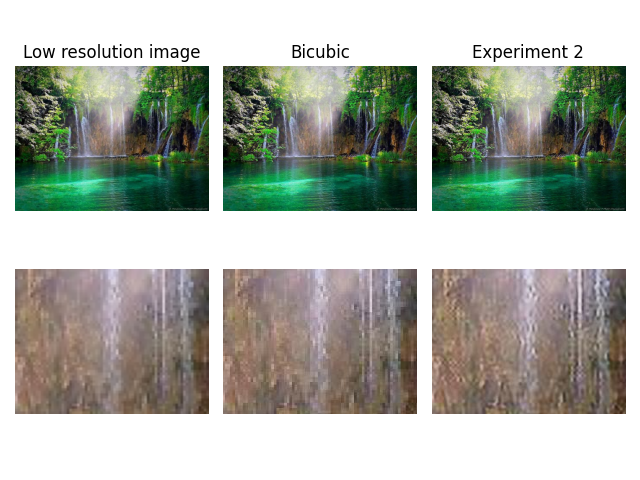
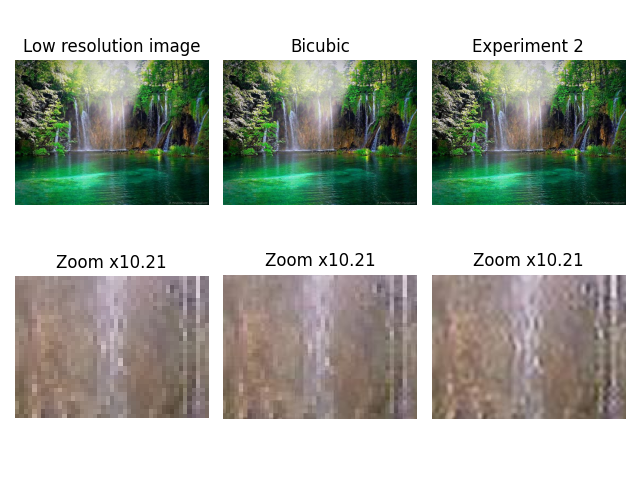
add comparaison

Changed region(s): [[0.0, 0.0625, 1.0, 0.4375], [0.0, 0.5312, 1.0, 0.875]]

diff --git a/data/prediction/compare.py b/data/prediction/compare.py
@@ -1,8 +1,9 @@
 import os
 import cv2
+from tqdm import tqdm
 import matplotlib.pyplot as plt
 
-def compare_images(image1, image2, image3, zoom_factor, upscale_factor, experiment):
+def compare_images(image1, image2, image3, zoom_factor, upscale_factor, experiment, saving_path):
     # Charger les images
     img1 = cv2.imread(image1)
     img2 = cv2.imread(image2)
@@ -51,27 +52,52 @@ def compare_images(image1, image2, image3, zoom_factor, upscale_factor, experime
     zoomed_img2 = img2[start_row:end_row, start_col:end_col]
     zoomed_img3 = img3[start_row:end_row, start_col:end_col]
 
+    zoom = height / zoom_height_img1
+
     # Afficher le zoom de l'image 1
     axes[1, 0].imshow(cv2.cvtColor(zoomed_img1, cv2.COLOR_BGR2RGB))
-    # axes[1, 0].set_title('Zoom - Image 1')
+    axes[1, 0].set_title("Zoom x{0:.2f}".format(zoom))
 
     # Afficher le zoom de l'image 2
     axes[1, 1].imshow(cv2.cvtColor(zoomed_img2, cv2.COLOR_BGR2RGB))
-    # axes[1, 1].set_title('Zoom - Image 2')
+    axes[1, 1].set_title("Zoom x{0:.2f}".format(zoom))
 
     # Afficher le zoom de l'image 3
     axes[1, 2].imshow(cv2.cvtColor(zoomed_img3, cv2.COLOR_BGR2RGB))
-    # axes[1, 2].set_title('Zoom - Image 3')
+    axes[1, 2].set_title("Zoom x{0:.2f}".format(zoom))
 
     # Masquer les axes
     for ax in axes.flatten():
         ax.axis('off')
 
     plt.tight_layout()
-    plt.show()
+    plt.savefig(saving_path)
 
-# Appel de la fonction pour comparer trois images
-image_path_1 = os.path.join("src", "person_rgb.png")
-image_path_2 = os.path.join("dst", "person_rgb_bicubic4.png")
-image_path_3 = os.path.join("dst", "person_rgb_experiment4.png")
-compare_images(image_path_1, image_path_2, image_path_3, zoom_factor=0.5, upscale_factor=4, experiment=4)
+def main(zoom_factor):
+
+    experiments = [{"number": 1, "upscale_factor": 3}, 
+                   {"number": 2, "upscale_factor": 3}, 
+                   {"number": 3, "upscale_factor": 2},
+                   {"number": 4, "upscale_factor": 4}]
+    
+    images_name = [("person_rgb", ".png"), ("lac", ".jpg")]
+
+    for experiment in tqdm(experiments):
+
+        for name, end in images_name:
+            original_image = os.path.join("src", name + end)
+            bicubic_image = os.path.join("dst", name + "_bicubic" + str(experiment["upscale_factor"]) + end)
+            predicted_image = os.path.join("dst", name +"_experiment" + str(experiment["number"]) + end)
+            saving_path = os.path.join("comparaison", name + "_exp" + str(experiment["number"]) + ".png")
+            compare_images(original_image, 
+                            bicubic_image, 
+                            predicted_image,
+                            zoom_factor=zoom_factor, 
+                            upscale_factor=experiment["upscale_factor"], 
+                            experiment=experiment["number"],
+                            saving_path=saving_path)
+
+main(zoom_factor=0.3)
+        
+
+        
